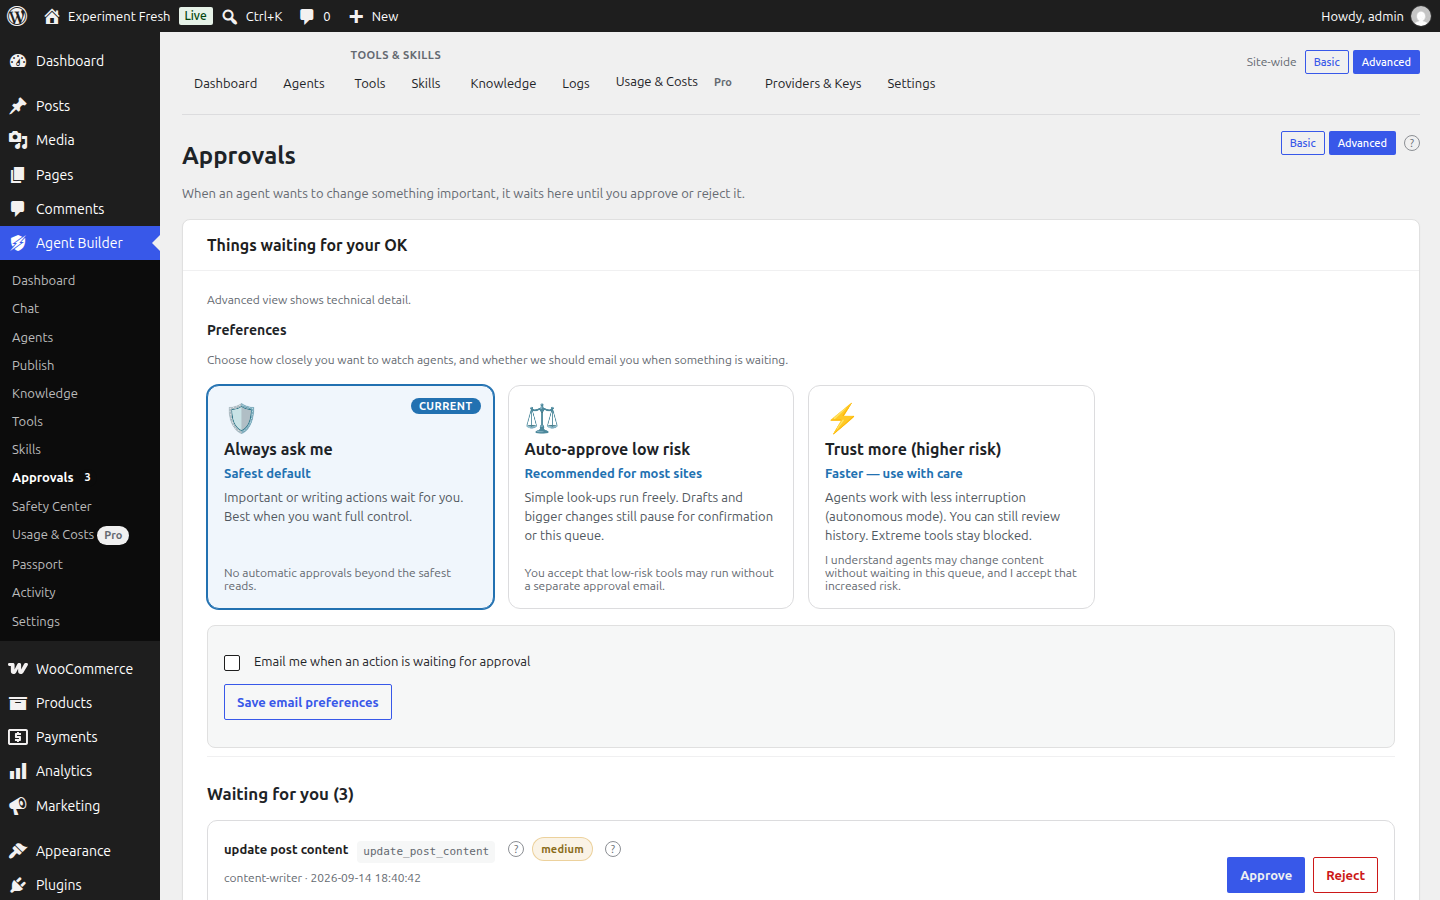
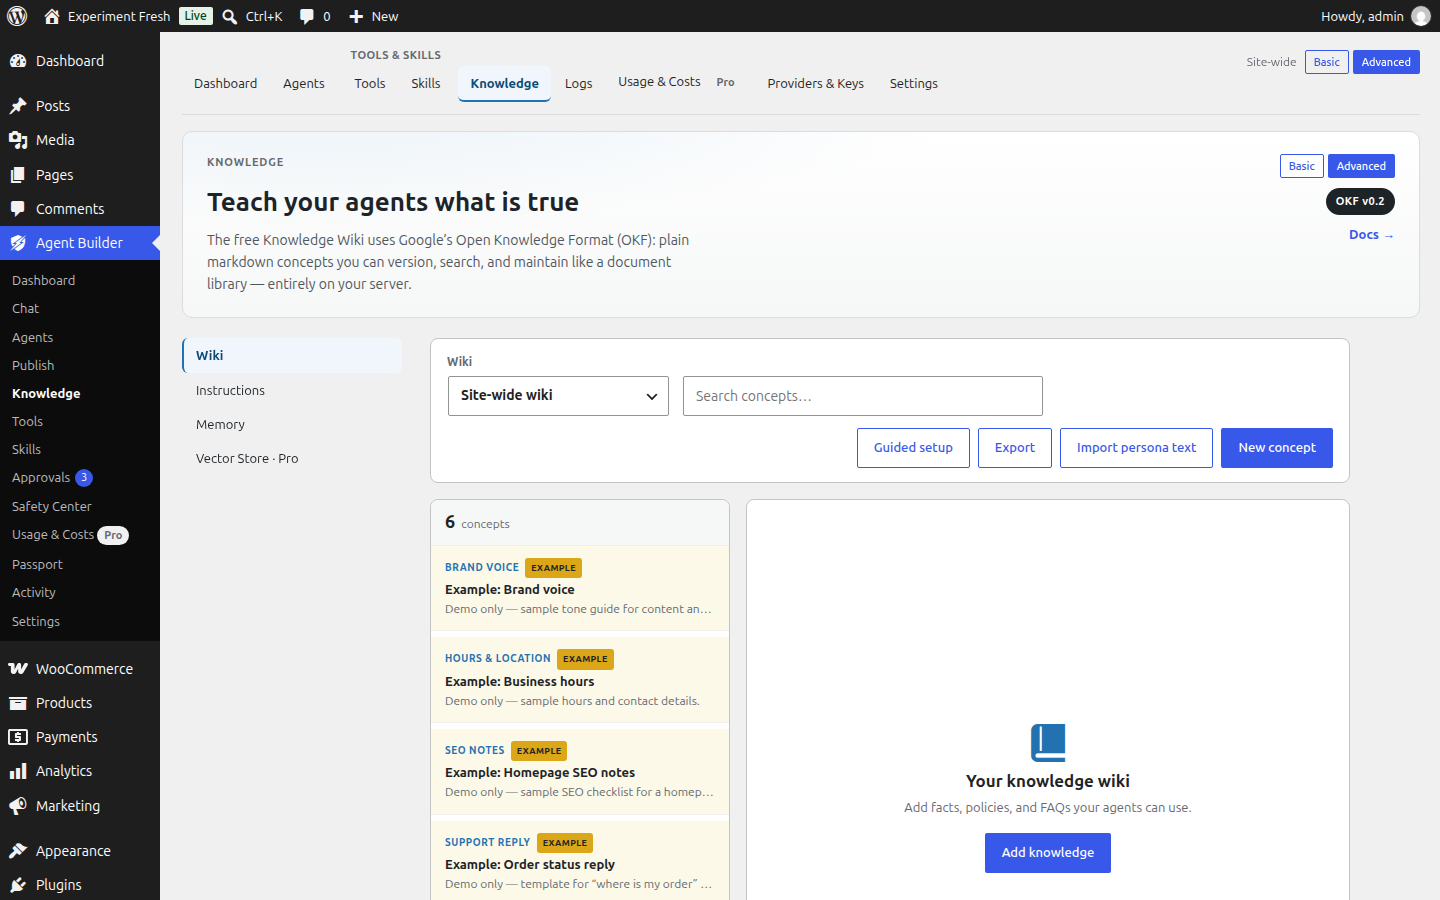
Replace redundant Approvals Preferences screenshot with Knowledge
#5 and #7 were the same underlying agentic-approvals page (Queue vs.
Preferences, just scrolled differently) — Renier flagged the overlap.
Kept #5 (Approvals Queue, the concrete "watch the gate work" proof)
and replaced #7 with Knowledge (agentic-train-data), a real headline
feature ("100% Free Local Knowledge" in this same readme's own
marketing copy) that had no screenshot at all.

Also found and removed a genuine leftover test artifact while
capturing it: an OKF concept titled "QA Test Return Policy" on
experiment.test, the only one of 7 concepts not flagged example=true
(deleted via Okf_Store, confirmed 6 clean example concepts remain) —
same class of test-cruft the earlier screenshot cleanup (PR #119)
found in the Agents Hub.

Claude-Session: https://claude.ai/code/session_01SwiwMwjmttW5XCiQHQq78D

diff --git a/bin/screenshot-wporg.js b/bin/screenshot-wporg.js
@@ -66,9 +66,9 @@ const SHOTS = [
 		n: 5,
 		page: 'agentic-approvals',
 		mode: 'advanced',
-		// Same underlying screen as #7 (Preferences); scroll past the
-		// preferences cards so the actual pending-approvals queue —
-		// what this caption is about — is what ends up in frame.
+		// This page's top section is Approvals Preferences (comfort-level
+		// cards) — scroll past those so the actual pending-approvals queue,
+		// what this caption is about, is what ends up in frame.
 		scrollTo: '.agentic-react-approval-list',
 	},
 	{
@@ -79,8 +79,9 @@ const SHOTS = [
 	},
 	{
 		n: 7,
-		page: 'agentic-approvals',
-		wait: '.agentic-react-approvals-prefs',
+		page: 'agentic-train-data',
+		mode: 'advanced',
+		wait: '#agentic-okf-search',
 	},
 	{
 		n: 8,

diff --git a/README.md b/README.md
@@ -46,7 +46,7 @@ Full-page (1440px) captures of every Agent Builder wp-admin screen, written to `
 WP_ADMIN_USER=... WP_ADMIN_PASS=... npm run screenshot:baseline
 ```
 
-Optional `SCREEN=slug,slug` captures a subset. Safety Center is stored as `safety-center.png` (Basic) and `safety-center-advanced.png`. The Approvals risk-gate preferences (readme caption 7) are `approvals-risk-gate.png`.
+Optional `SCREEN=slug,slug` captures a subset. Safety Center is stored as `safety-center.png` (Basic) and `safety-center-advanced.png`. The Approvals risk-gate preferences (no longer its own WP.org listing caption — see `bin/screenshot-wporg.js`'s shot #5 comment) are `approvals-risk-gate.png`.
 
 Uses system Google Chrome when Playwright’s bundled Chromium is unavailable (override with `PLAYWRIGHT_CHROME_PATH`). Safe to re-run; existing PNGs are overwritten.
 
